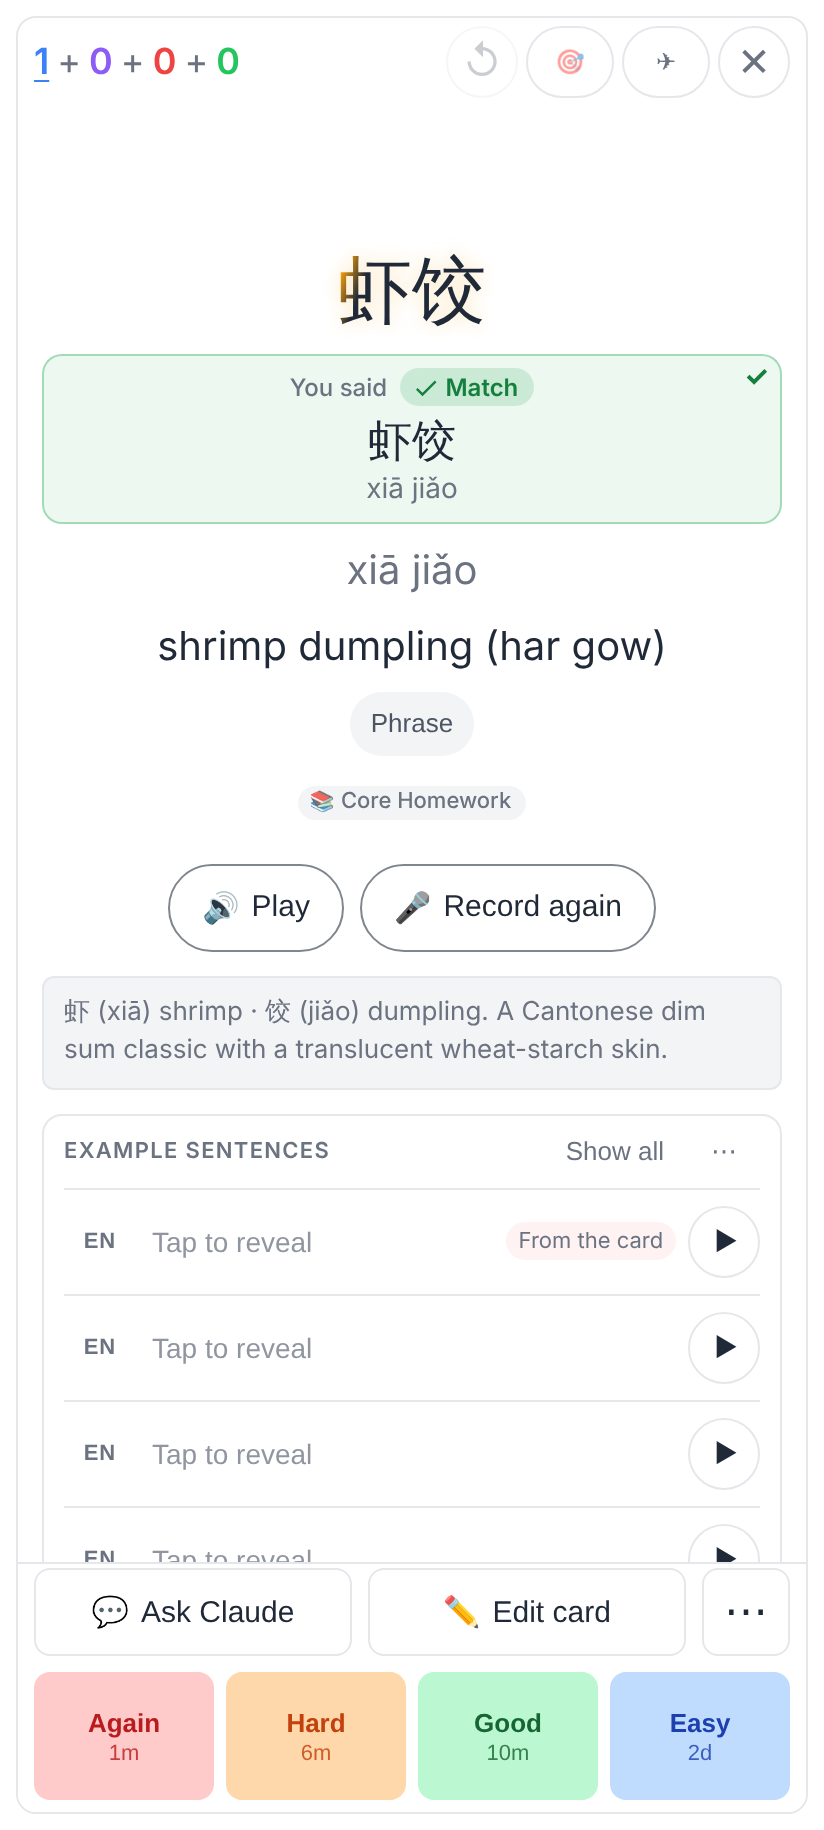
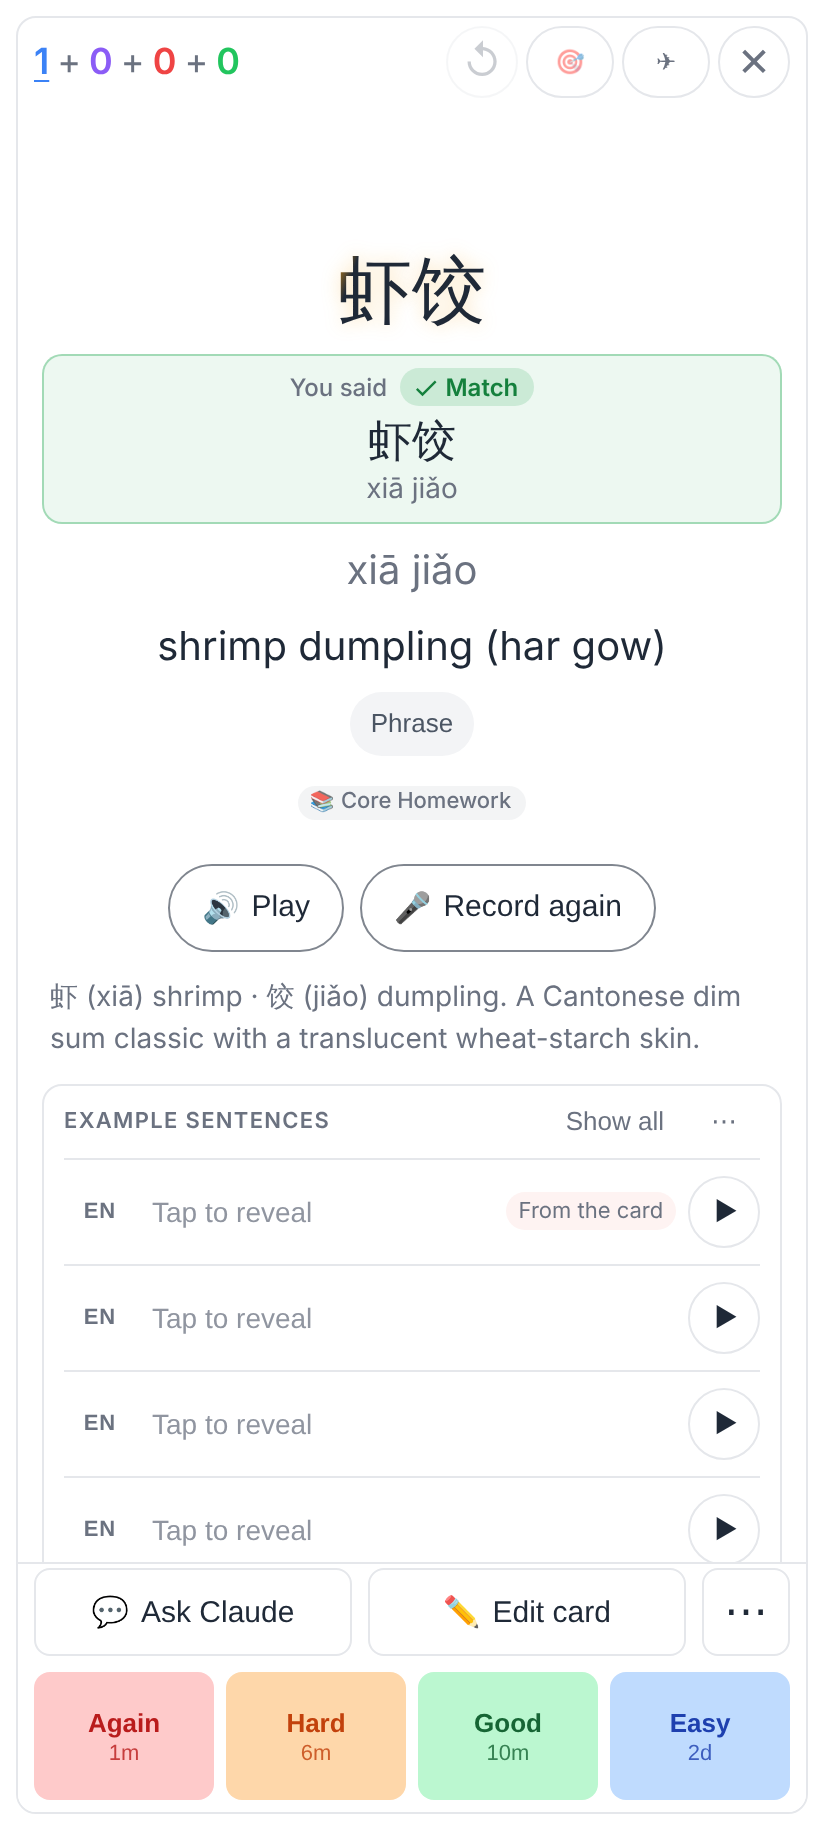
Right moment draws in dp, no test tag of its own; fun fact plain on the web; screenshots + README
Claude-Session: https://claude.ai/code/session_01S2Ys2SkJDhPqV4AJdGatr3

diff --git a/android-lab/app/src/main/java/dev/jeromeswannack/chineselearning/lab/ui/study/RightMomentUi.kt b/android-lab/app/src/main/java/dev/jeromeswannack/chineselearning/lab/ui/study/RightMomentUi.kt
@@ -16,9 +16,6 @@ import androidx.compose.ui.geometry.Size
 import androidx.compose.ui.graphics.drawscope.rotate
 import androidx.compose.ui.platform.LocalContext
 import androidx.compose.ui.platform.LocalView
-import androidx.compose.ui.platform.testTag
-import androidx.compose.ui.semantics.semantics
-import androidx.compose.ui.semantics.stateDescription
 import androidx.compose.ui.unit.dp
 import dev.jeromeswannack.chineselearning.lab.core.ResultState
 import dev.jeromeswannack.chineselearning.lab.core.RightMoment
@@ -28,9 +25,6 @@ import kotlin.math.PI
 import kotlin.math.cos
 import kotlin.math.sin
 import kotlin.random.Random
-
-/** Test tag of the "right" moment (`right-moment-<where>`), on the thing that was right. */
-const val RIGHT_MOMENT_TAG = "right-moment"
 
 /** The system's "Remove animations" (animator duration scale 0) = reduce motion. */
 @Composable
@@ -67,7 +61,7 @@ fun Modifier.rightMoment(
         val rnd = Random(key.hashCode())
         List(moment.confetti) { i ->
             val angle = (i.toFloat() / moment.confetti.coerceAtLeast(1)) * 2 * PI.toFloat() + (rnd.nextFloat() - 0.5f) * 0.5f
-            floatArrayOf(angle, 0.6f + rnd.nextFloat() * 0.6f, (rnd.nextFloat() - 0.5f) * 540f, i.toFloat(), 10f + rnd.nextFloat() * 6f)
+            floatArrayOf(angle, 0.6f + rnd.nextFloat() * 0.6f, (rnd.nextFloat() - 0.5f) * 540f, i.toFloat(), 4f + rnd.nextFloat() * 2f)
         }
     }
     LaunchedEffect(key) {
@@ -81,9 +75,8 @@ fun Modifier.rightMoment(
         }
     }
     LaunchedEffect(key) { if (moment.confetti > 0) burst.animateTo(1f, tween(moment.durationMs, easing = FastOutSlowInEasing)) }
+    // No test tag of its own: it sits on the host's node, whose own tag (the exercise, "You said" …) must win.
     this
-        .testTag("$RIGHT_MOMENT_TAG-$where")
-        .semantics { stateDescription = "Right" }
         .drawWithContent {
             val w = wash.value
             if (w > 0f) drawRoundRect(tone.copy(alpha = 0.24f * w), cornerRadius = androidx.compose.ui.geometry.CornerRadius(ResultState.SURFACE_RADIUS.dp.toPx()))
@@ -92,13 +85,15 @@ fun Modifier.rightMoment(
             if (p >= 1f) return@drawWithContent
             val cx = size.width / 2
             val cy = size.height / 2
-            val reach = 110f
+            val reach = 64.dp.toPx()
+            val rise = 12.dp.toPx()
+            val fall = 44.dp.toPx()
             for (sd in seeds) {
                 val x = cx + cos(sd[0]) * reach * sd[1] * p * 1.5f
-                val y = cy + sin(sd[0]) * reach * sd[1] * p - 30f * p + 110f * p * p
+                val y = cy + sin(sd[0]) * reach * sd[1] * p - rise * p + fall * p * p
                 val a = if (p < 0.7f) 1f else ((1f - p) / 0.3f).coerceIn(0f, 1f)
                 val c = Palette.Confetti[sd[3].toInt() % Palette.Confetti.size]
-                val pw = sd[4]
+                val pw = sd[4].dp.toPx()
                 rotate(sd[2] * p, Offset(x, y)) {
                     drawRect(c.copy(alpha = a), topLeft = Offset(x - pw / 2, y - pw * 0.8f), size = Size(pw, pw * 1.6f))
                 }

diff --git a/android-lab/app/src/test/java/dev/jeromeswannack/chineselearning/lab/ui/study/StudyPolishScreenshots.kt b/android-lab/app/src/test/java/dev/jeromeswannack/chineselearning/lab/ui/study/StudyPolishScreenshots.kt
@@ -31,6 +31,8 @@ import dev.jeromeswannack.chineselearning.lab.testing.LabScreenshotTest
 import dev.jeromeswannack.chineselearning.lab.testing.Samples
 import dev.jeromeswannack.chineselearning.lab.ui.theme.Lab
 import org.junit.Test
+import androidx.compose.ui.test.onRoot
+import com.github.takahirom.roborazzi.captureRoboImage
 import org.robolectric.annotation.Config
 
 /**
@@ -156,15 +158,25 @@ class StudyPolishScreenshots : LabScreenshotTest() {
         }
     }
 
-    /** Hard mode's question, right: a frame mid-burst (the wash at its brightest, the confetti flying). */
-    @Test fun hardRightMomentDark() = shoot("polish2-11-hard-right-moment-dark", dark = true, settleMs = 260) {
+    /** A frame mid-animation: the test clock stopped ([shoot] would let it run to the end before capturing). */
+    private fun shootMidMoment(name: String, atMs: Long, content: @Composable () -> Unit) {
+        val ctx = androidx.test.core.app.ApplicationProvider.getApplicationContext<android.content.Context>()
+        android.provider.Settings.Global.putFloat(ctx.contentResolver, android.provider.Settings.Global.ANIMATOR_DURATION_SCALE, 1f)
+        compose.mainClock.autoAdvance = false
+        compose.setContent { dev.jeromeswannack.chineselearning.lab.ui.theme.LabTheme(dark = true) { content() } }
+        compose.mainClock.advanceTimeBy(atMs)
+        compose.onRoot().captureRoboImage("screenshots/$name.png")
+    }
+
+    /** Hard mode's question, right: a frame mid-burst (the wash bright, the confetti flying). */
+    @Test fun hardRightMomentDark() = shootMidMoment("polish2-11-hard-right-moment-dark", 240) {
         Box(Modifier.fillMaxSize().background(Lab.colors.background).padding(8.dp), contentAlignment = Alignment.BottomCenter) {
             HardModeFeedbackPanel(result = "right", said = "虾饺", spoken = true, roundFollows = true, onTryAgain = {}, onShowAnswer = {}, onNext = {})
         }
     }
 
     /** A typed answer right on the back, mid-burst. */
-    @Test fun typedRightMomentDark() = shoot("polish2-12-typed-right-moment-dark", dark = true, settleMs = 260) {
+    @Test fun typedRightMomentDark() = shootMidMoment("polish2-12-typed-right-moment-dark", 240) {
         study(ui(view(CardTypes.MEANING_TO_HANZI)), CardStartState(flipped = true, answer = "虾饺"))
     }
 }

diff --git a/android-lab/app/src/test/java/dev/jeromeswannack/chineselearning/lab/ui/study/YouSaidCoachUiTest.kt b/android-lab/app/src/test/java/dev/jeromeswannack/chineselearning/lab/ui/study/YouSaidCoachUiTest.kt
@@ -53,9 +53,8 @@ class YouSaidCoachUiTest : LabScreenshotTest() {
         compose.onNodeWithTag(YOU_SAID_COACH_TAG, useUnmergedTree = true).performClick()
         // As shown: a word card drops the recogniser's trailing 。 (AnswerKey.tidySpokenTranscript).
         assertEquals(listOf("它的作业由我写的" to "read"), opened)
-        // ▶ plays the take it was transcribed from.
-        compose.onNodeWithTag(YOU_SAID_PLAY_TAG, useUnmergedTree = true).performClick()
-        assertEquals(1, plays)
+        // No ▶ on the box (docs/STUDY_SESSION.md "The study card's layout"): the take plays from ⋯ → Play my recording.
+        assertEquals(0, count(YOU_SAID_PLAY_TAG))
     }
 
     @Test fun onlyTheOrangeBoxHasIt() {
@@ -63,7 +62,7 @@ class YouSaidCoachUiTest : LabScreenshotTest() {
         compose.mainClock.advanceTimeBy(1_000)
         assertEquals(1, count("$YOU_SAID_TAG-match"))
         assertEquals(0, count(YOU_SAID_COACH_TAG))
-        assertEquals(1, count(YOU_SAID_PLAY_TAG))
+        assertEquals(0, count(YOU_SAID_PLAY_TAG))
     }
 
     @Test fun aSpokenAnswerSaidInASentenceOpensInTheCoach() {

diff --git a/e2e/tests/study-speak-answer.spec.ts b/e2e/tests/study-speak-answer.spec.ts
@@ -587,11 +587,11 @@ test('the yellow "You said" box: the round ✎ Check in Coach opens the sentence
   await expect(said).toHaveAttribute('data-state', 'contains', { timeout: 8000 });
   const coach = said.getByTestId('you-said-coach');
   await expect(coach).toBeVisible();
-  // A round 44px button on the far right, named for screen readers.
+  // The result rows' one round button (a 36px circle with a hairline, a 44px target) on the right, named for screen readers.
   await expect(coach).toHaveAccessibleName('Check in Coach');
   const [box, btn] = [await said.boundingBox(), await coach.boundingBox()];
-  expect(btn!.height).toBeGreaterThanOrEqual(44);
-  expect(btn!.width).toBeGreaterThanOrEqual(44);
+  expect(btn!.height).toBeGreaterThanOrEqual(36);
+  expect(btn!.width).toBeGreaterThanOrEqual(36);
   expect(box!.x + box!.width - (btn!.x + btn!.width)).toBeLessThan(12);
   expect(Math.abs(btn!.width - btn!.height)).toBeLessThan(1);
   expect(await coach.evaluate((el) => getComputedStyle(el).borderRadius)).toBe('50%');

diff --git a/frontend/src/pages/StudyPage.css b/frontend/src/pages/StudyPage.css
@@ -284,7 +284,11 @@
 
 /* Fun fact stays as content, never a button on the back — plain text, no box (the example sentences are the card's
    one box inside the frame). */
-.study-fun-fact {
+.study-fun-fact,
+.study-fun-fact.claude-response {
+  border: none;
+  background: none;
+  border-radius: 0;
   margin-top: 0.75rem;
   font-size: 0.875rem;
   line-height: 1.5;

diff --git a/docs/pr-screenshots/study-card-polish-2/README.md b/docs/pr-screenshots/study-card-polish-2/README.md
@@ -1,0 +1,86 @@
+# Study card polish, round 2 — screenshots
+
+Phone = 412×915 @2× (the folded Fold). Lab shots are Roborazzi renders (`StudyPolishScreenshots`), dark unless named
+light; web shots are the PWA (light — the web is light-only).
+
+## Lab — the read card's answer side (虾饺)
+
+Before: the hanzi against the top, a big ▶ (his own take) pinned to the left of "You said", text-only Ask Claude /
+Edit card, sentence rows on two lines. After: room above the hanzi, "You said ✓ Match" centred on the one result
+surface, outlined footer buttons, the sentences in one outline with one-line rows, an 8dp gutter round the frame.
+
+![Lab answer side, before](before-lab-02-read-back-dark.png)
+![Lab answer side, after](after-lab-02-read-back-dark.png)
+
+Light: ![Lab answer side, light, after](after-lab-03-read-back-light.png)
+
+Unfolded (≥ 700dp): ![before](before-lab-08-read-back-unfolded-dark.png) ![after](after-lab-08-read-back-unfolded-dark.png)
+
+## Lab — the question side
+
+![Read question, before](before-lab-01-read-question-dark.png)
+![Read question, after](after-lab-01-read-question-dark.png)
+
+## Lab — ⋯ menu: "▶ Play my recording"
+
+![More sheet, before](before-lab-05-more-sheet-dark.png)
+![More sheet, after](after-lab-05-more-sheet-dark.png)
+
+## Lab — meaning → hanzi, typed right
+
+Before: the answer in green characters. After: normal ink on the green result surface (the "right" moment's resting
+state).
+
+![Typed right, before](before-lab-04-meaning-back-typed-right-dark.png)
+![Typed right, after](after-lab-04-meaning-back-typed-right-dark.png)
+
+## Lab — example sentences: five collapsed rows, and two half revealed
+
+![Collapsed, before](before-lab-06-sentences-collapsed-dark.png)
+![Collapsed, after](after-lab-06-sentences-collapsed-dark.png)
+![Half revealed, before](before-lab-07-sentences-half-revealed-dark.png)
+![Half revealed, after](after-lab-07-sentences-half-revealed-dark.png)
+
+## Lab — the listening card with multiple choice: nothing touches the frame
+
+Before: the grid's first row sat flush against the frame's bottom border (a 2dp inset under a 2–3dp shadow). After: the
+standard 8dp gap above the grid and round the frame (`CardFrameGapTest` asserts it).
+
+![Listening MC, before](before-lab-09-listening-mc-dark.png)
+![Listening MC, after](after-lab-09-listening-mc-dark.png)
+
+## Lab — one look for every result (match · contains · close — tones off · didn't match · checking · the compact rows)
+
+Before: the yellow states boxed with a thicker outline and solid chips, the green / red / checking ones bare. After:
+every state the same light outline + faint tint, only the colour (and icon) differs.
+
+![Result states, before](before-lab-10-result-states-dark.png)
+![Result states, after](after-lab-10-result-states-dark.png)
+
+## Lab — the "right" moment, mid-burst
+
+![Hard mode ✓ Right, before](before-lab-11-hard-right-moment-dark.png)
+![Hard mode ✓ Right, after](after-lab-11-hard-right-moment-dark.png)
+![Typed right on the back, after](after-lab-12-typed-right-moment-dark.png)
+
+## Web
+
+Answer side (read card): ![before](before-w412-02-read-answer.png) ![after](after-w412-02-read-answer.png)
+
+Question side: ![before](before-w412-01-read-question.png) ![after](after-w412-01-read-question.png)
+
+Unfolded: ![before](before-w840-02-read-answer.png) ![after](after-w840-02-read-answer.png)
+
+⋯ menu (Play my recording, Send feedback): ![before](before-03-more-menu.png) ![after](after-03-more-menu.png)
+
+Sentences collapsed: ![before](before-04-sentences-collapsed.png) ![after](after-04-sentences-collapsed.png)
+
+Half revealed: ![before](before-05-sentences-half-revealed.png) ![after](after-05-sentences-half-revealed.png)
+
+A sentence row's 🎤 take, right — the moment: ![after](after-05b-sentence-row-right-moment.png)
+
+Meaning → hanzi typed right — the moment: ![before](before-07-meaning-right-moment.png) ![after](after-07-meaning-right-moment.png)
+
+Hard mode's question, right: ![before](before-09-hard-question-right.png) ![after](after-09-hard-question-right.png)
+
+A Sentence round exercise, right: ![before](before-10-round-exercise-said.png) ![after](after-10-round-exercise-said.png)
